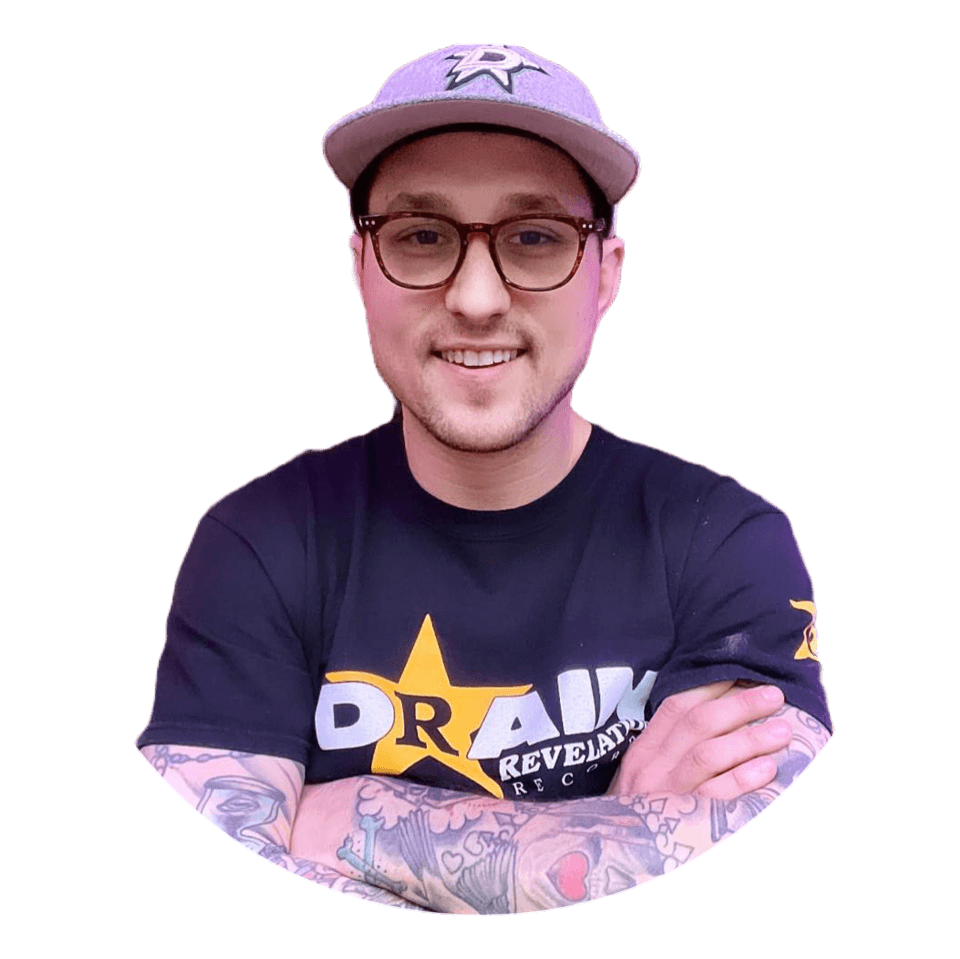
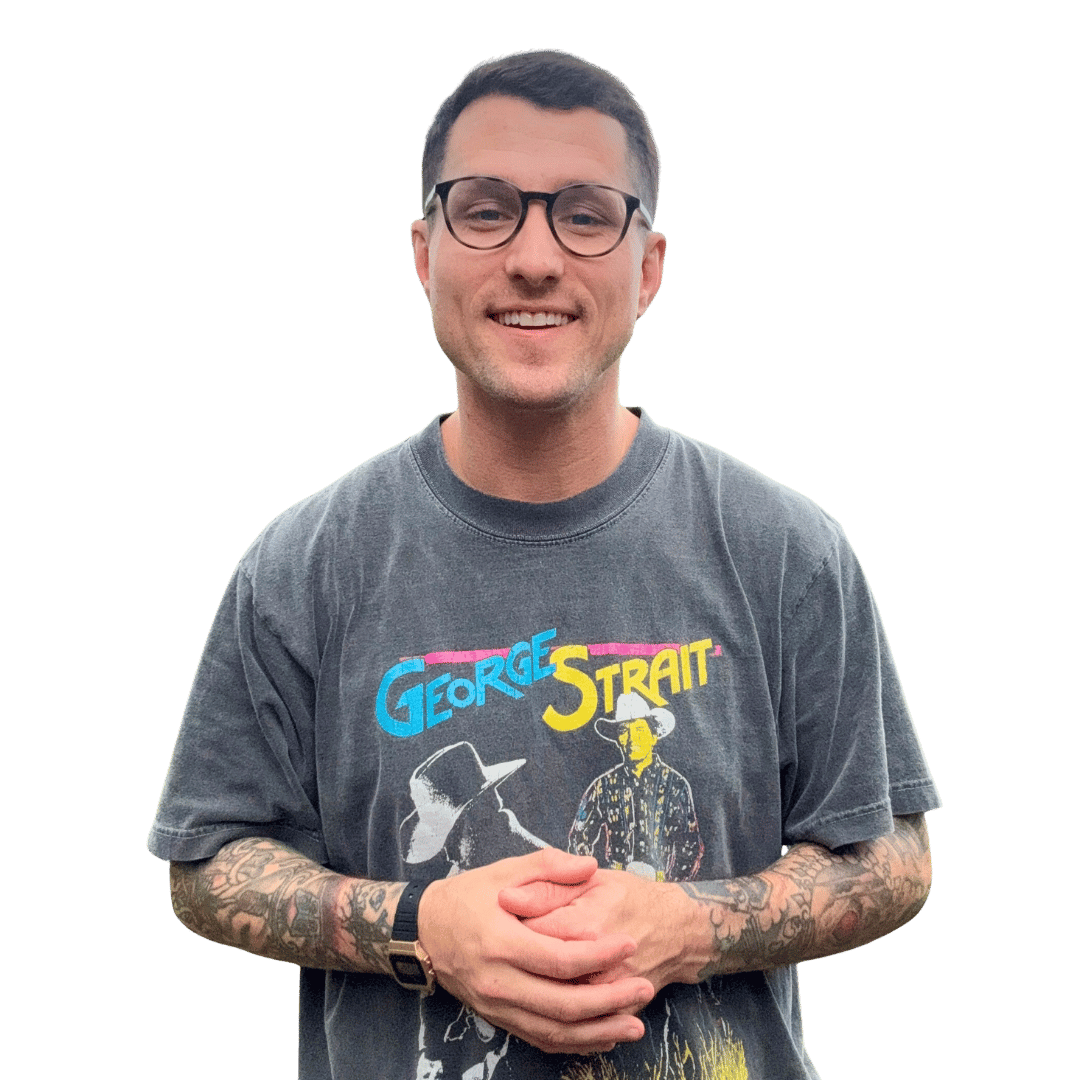
projects

diff --git a/app/lib/get-projects.tsx b/app/lib/get-projects.tsx
@@ -38,24 +38,6 @@ const Projects: Project[] = [
     type: 'project',
     image: '/projects/xprod.png',
   },
-  // {
-  //   title: 'CC NextFolio',
-  //   description:
-  //     'A customizable portfolio template built for modern developers. Built with Next.js, TypeScript, Content Collections, Zustand, Tailwind CSS, and more.',
-  //   href: 'https://github.com/egarrisxn/cc-nextfolio',
-  //   years: ['2025'],
-  //   type: 'project',
-  //   image: '/projects/ccnextfolio.png',
-  // },
-  // {
-  //   title: 'XO Chatbot',
-  //   description:
-  //     'An interactive AI chatbot powered by Grok, designed for seamless and responsive conversations. Built with Next.js, TypeScript, Next-Auth, Tailwind CSS, and more.',
-  //   href: 'https://github.com/egarrisxn/xochatbot',
-  //   years: ['2025'],
-  //   type: 'project',
-  //   image: '/projects/xochatbot.png',
-  // },
   {
     title: 'Sway Bae Official',
     description:
@@ -110,15 +92,6 @@ const Projects: Project[] = [
     type: 'project',
     image: '/projects/n00bdev.png',
   },
-  // {
-  //   title: 'WebSanity Builder',
-  //   description:
-  //     'An intuitive website builder that makes creating beautiful pages effortless. Built with Next.js, JavaScript, Sanity, Tailwind CSS, and more.',
-  //   href: 'https://github.com/egarrisxn/websanity-builder',
-  //   years: ['2024'],
-  //   type: 'project',
-  //   image: '/projects/websanity.png',
-  // },
   {
     title: 'Unofficial Merchandise',
     description:
@@ -146,33 +119,6 @@ const Projects: Project[] = [
     type: 'project',
     image: '/projects/egxworldv1.png',
   },
-  // {
-  //   title: 'Pushin Mongo Movies',
-  //   description:
-  //     'A full-stack movie database app powered by the MERN stack for discovering and managing movies. Built with Next.js, TypeScript, MongoDB, Nuqs, Tailwind CSS, and more.',
-  //   href: 'https://github.com/egarrisxn/pushin-mongo-movies',
-  //   years: ['2023'],
-  //   type: 'project',
-  //   image: '/projects/pushinmongo.png',
-  // },
-  // {
-  //   title: 'Gavs Type Game (GTG)',
-  //   description:
-  //     'An easy-to-use keyboard typing learning game created and tailored for my son, Gavin. Built with Next.js, TypeScript, Tailwind CSS, and more.',
-  //   href: 'https://github.com/egarrisxn/gavins-typing-game',
-  //   years: ['2023'],
-  //   type: 'project',
-  //   image: '/projects/typinggame.png',
-  // },
-  // {
-  //   title: 'DevBuild Resume',
-  //   description:
-  //     'A stylish resume builder designed with aesthetics in mind over ATS compliance. Built with Next.js, TypeScript, Tailwind CSS, Material-Tailwind, and more.',
-  //   href: 'https://github.com/egarrisxn/devbuild-resume',
-  //   years: ['2023'],
-  //   type: 'project',
-  //   image: '/projects/devbuildresume.png',
-  // },
 ]
 
 export const getProjects = cache(async (): Promise<Project[]> => {

diff --git a/app/(pages)/about/page.tsx b/app/(pages)/about/page.tsx
@@ -30,7 +30,7 @@ export default function AboutPage() {
     <>
       <header className={styles.header}>
         <Image
-          src='/images/avatar.png'
+          src='/images/myavatar.png'
           alt='My personal photo'
           width={100}
           height={100}
